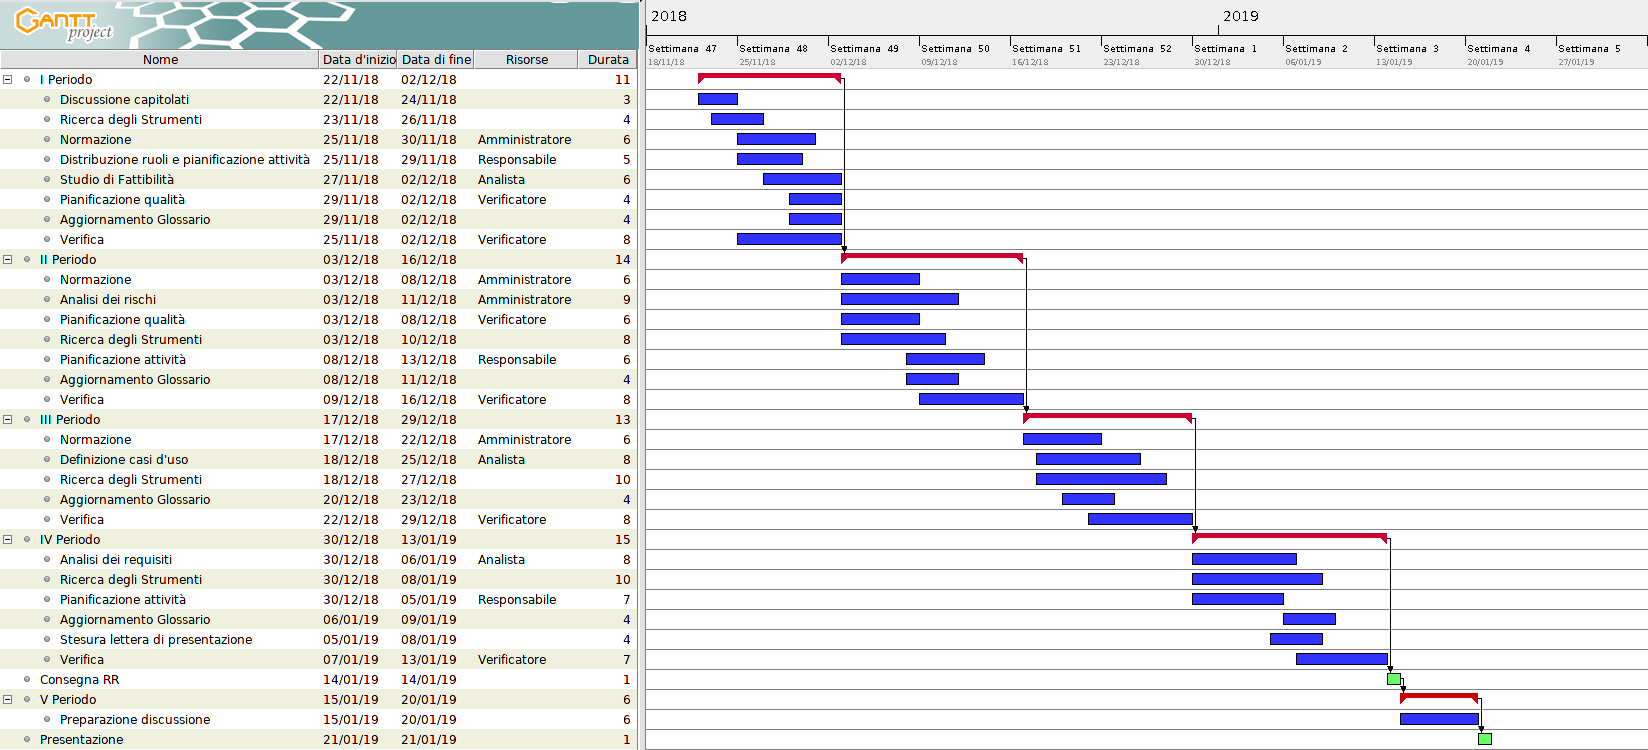
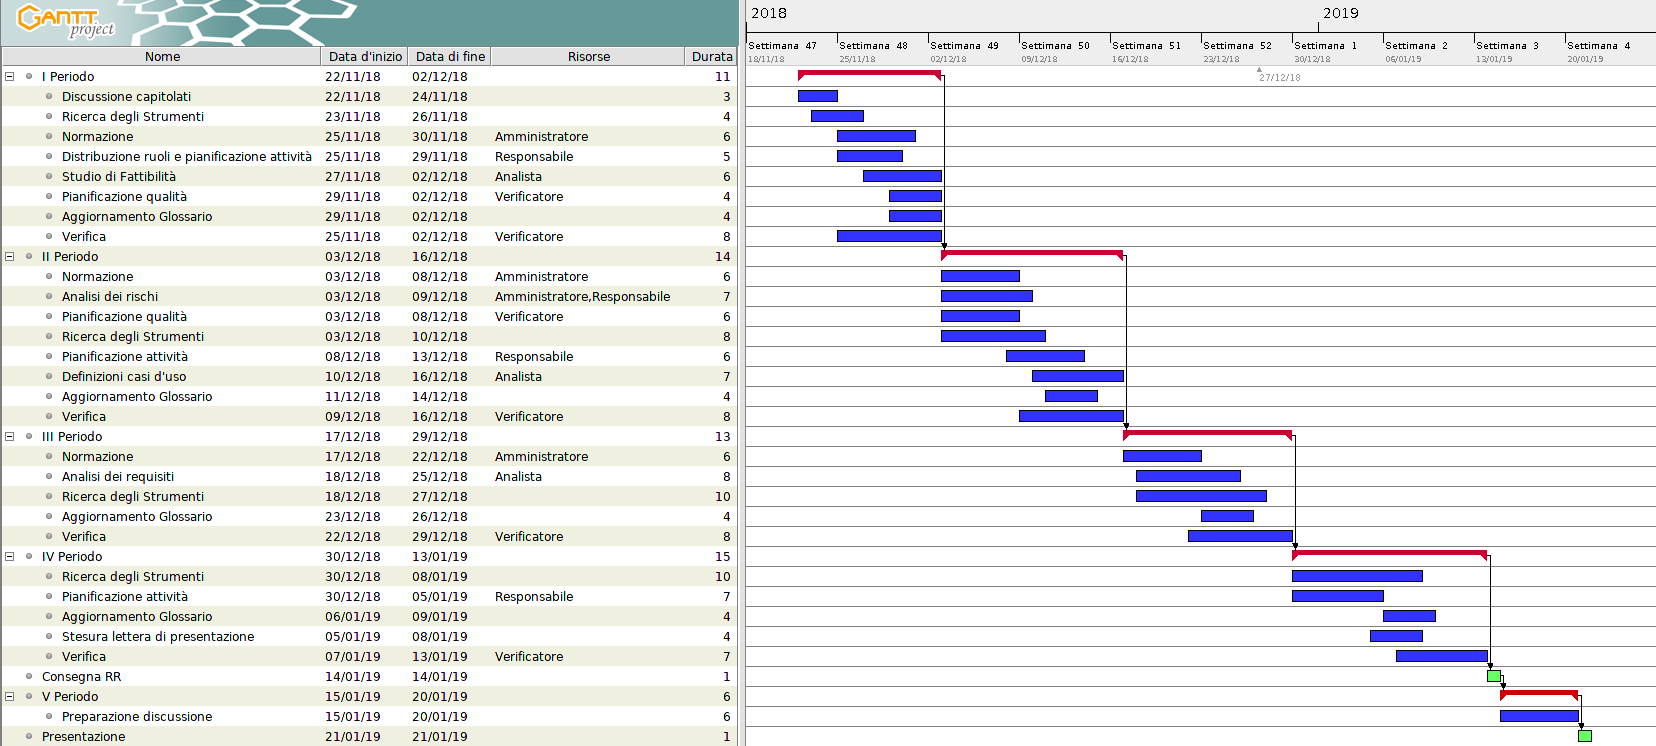
Aggiornata pianificazione Analisi dei requisiti PdP

Changed region(s): [[0.0, 0.0, 1.0, 1.0]]

diff --git a/doc/Esterni/Piano di Progetto/sections/pianificazione.tex b/doc/Esterni/Piano di Progetto/sections/pianificazione.tex
@@ -50,17 +50,17 @@
     	        \item \textbf{Analisi dei rischi}
     	        \item \textbf{Pianificazione qualità}: individuazione metodi per garantire qualità del prodotto
        	        \item \textbf{Ricerca degli strumenti}: individuazione strumenti per le varie attività di progetto
-       	        \item \textbf{Pianificazione attività}: diagrammi di Gantt e pianificazione dell'intero progetto.
+       	        \item \textbf{Pianificazione attività}: diagrammi di Gantt e pianificazione dell'intero progetto
+       	        \item \textbf{Definizione casi d'uso}.
         	\end{itemize}
         	\item \textbf{III periodo}: dal 17-12-2018 al 29-12-2018
 			\begin{itemize}
     	        \item \textbf{Normazione}: definizione di regole per i processi organizzativi
-    	        \item \textbf{Definizione casi d'uso}
+    	        \item \textbf{Analisi dei requisiti}: ricerca requisiti del capitolato scelto
        	        \item \textbf{Ricerca degli strumenti}: strumenti per l'interfacciarsi a \gloss{Producers}, Broker.
         	\end{itemize}
         	\item \textbf{IV periodo}: dal 30-12-2018 al 13-01-2019
         	\begin{itemize}
-        		\item \textbf{Analisi dei requisiti}: ricerca requisiti del capitolato scelto
        	        \item \textbf{Ricerca degli strumenti}: strumenti per l'interfacciarsi con il Gestore del personale, \gloss{Consumers}
        	        \item \textbf{Pianificazione attività}: aggiornamenti della pianificazione
        	        \item \textbf{Stesura lettera di presentazione}.
